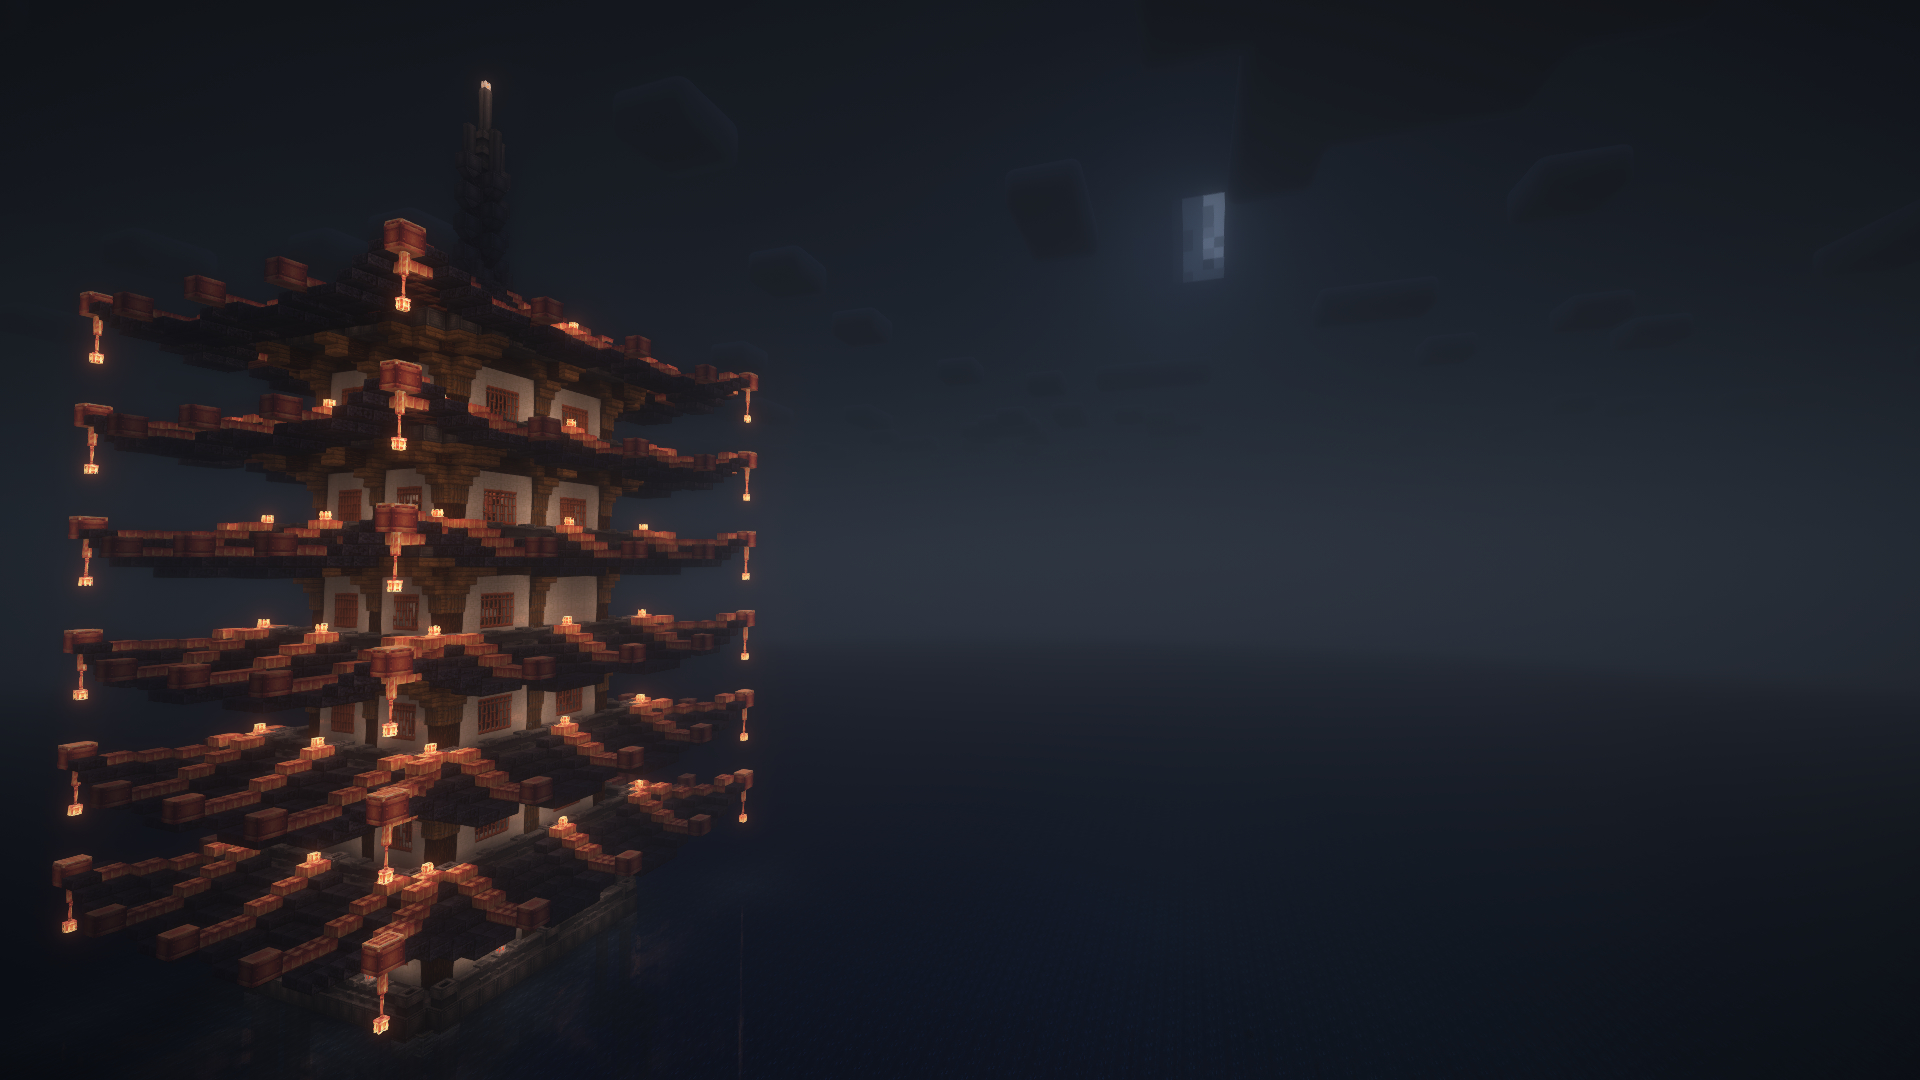
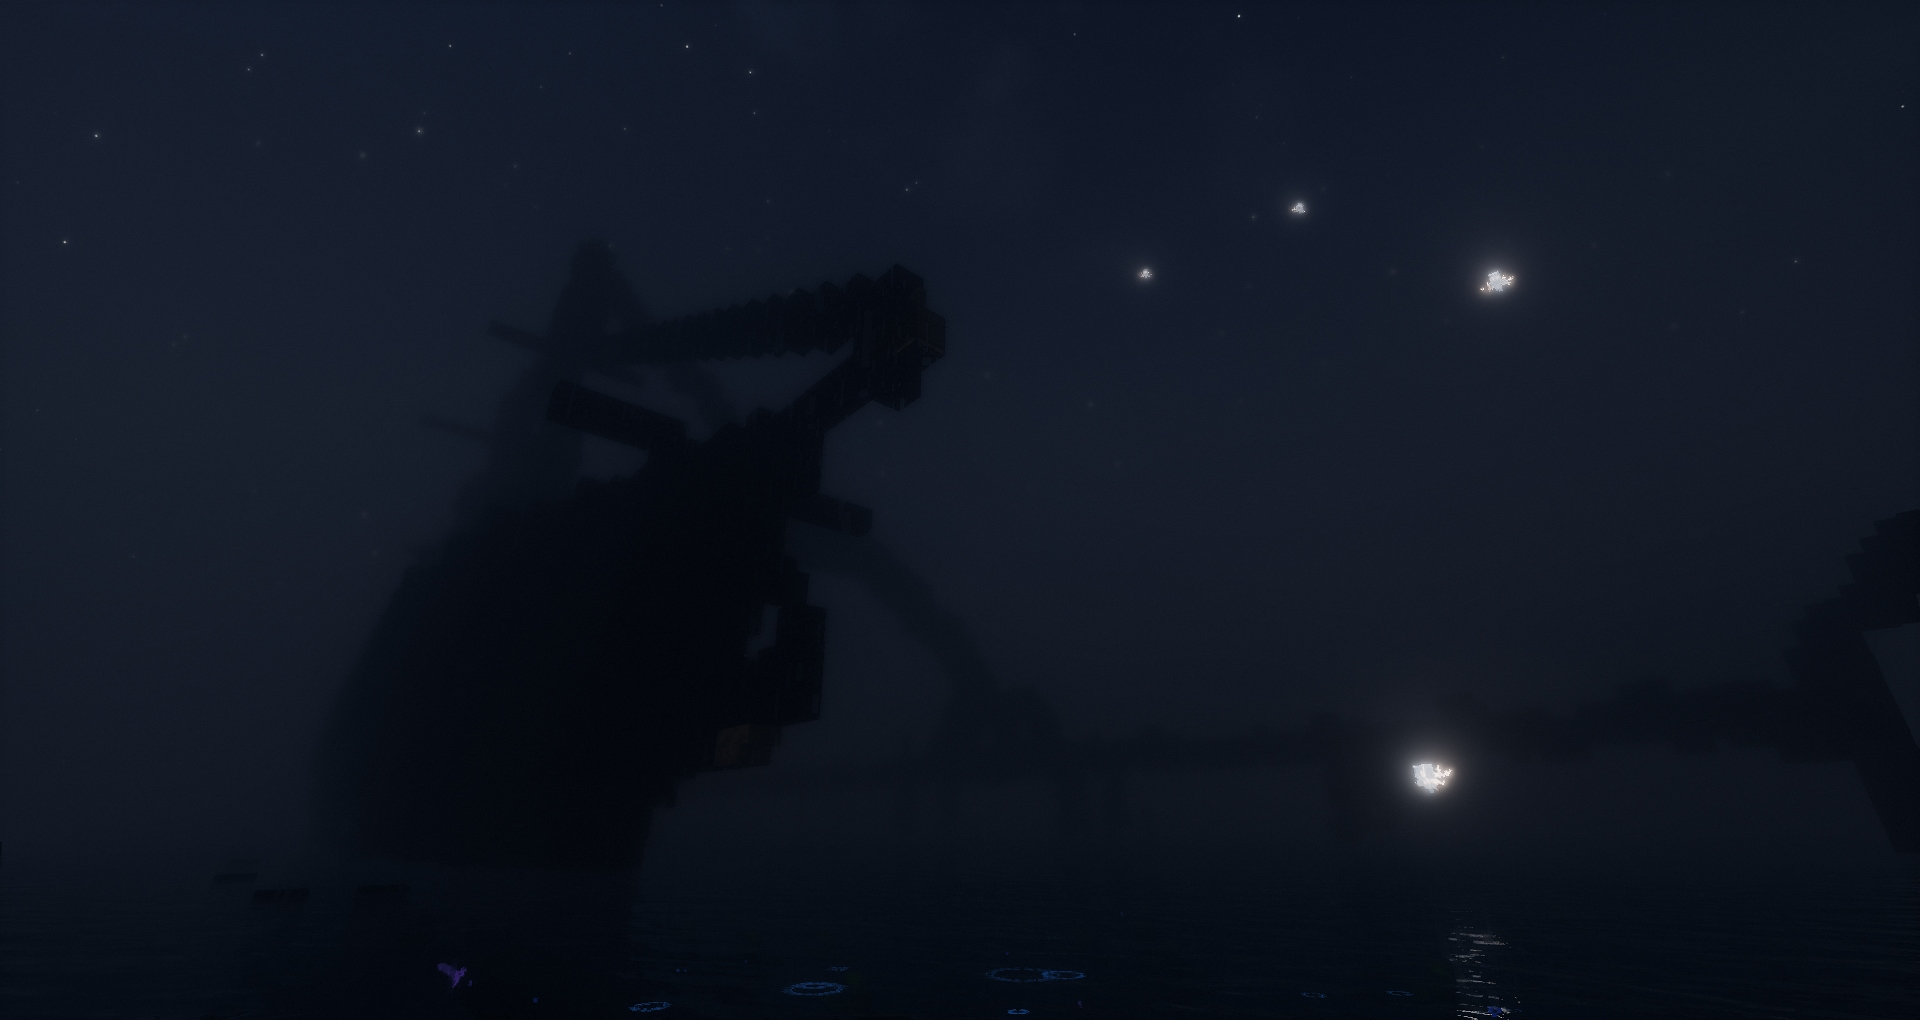
RU и новые обои + интреграция новостей

diff --git a/app/assets/js/scripts/landing.js b/app/assets/js/scripts/landing.js
@@ -965,6 +965,8 @@ async function loadNews(){
     }
 
     const promise = new Promise((resolve, reject) => {
+
+        
         
         const newsFeed = distroData.rawDistribution.rss
         const newsHost = new URL(newsFeed).origin + '/'
@@ -986,7 +988,7 @@ async function loadNews(){
                     comments = comments + ' Comment' + (comments === '1' ? '' : 's')
 
                     // Fix relative links in content.
-                    let content = el.find('content\\:encoded').text()
+                    let content = el.find('description').text()
                     let regex = /src="(?!http:\/\/|https:\/\/)(.+?)"/g
                     let matches
                     while((matches = regex.exec(content))){
@@ -995,7 +997,7 @@ async function loadNews(){
 
                     let link   = el.find('link').text()
                     let title  = el.find('title').text()
-                    let author = el.find('dc\\:creator').text()
+                    let author = 'Администрация'
 
                     // Generate article.
                     articles.push(
